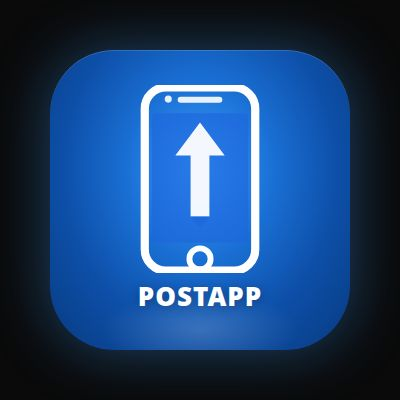
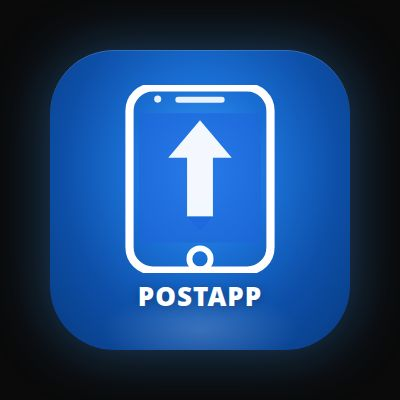
Widen iPhone silhouette to match text and adjust arrow
Adjust SVG for POSTAPP icon to widen the iPhone silhouette, aligning it with the text width, and proportionally scale the upload arrow with a larger arrowhead.

Replit-Commit-Author: Agent
Replit-Commit-Session-Id: ebc58803-abd4-4209-a281-e5b4c2ee3044
Replit-Commit-Checkpoint-Type: full_checkpoint
Replit-Commit-Event-Id: 53a66253-ec13-47ff-a157-b507c1280f8c
Replit-Commit-Screenshot-Url: https://storage.googleapis.com/screenshot-production-us-central1/cd8cc1ea-faf8-4541-bffe-30761e63f0c4/ebc58803-abd4-4209-a281-e5b4c2ee3044/kq6p7tJ
Replit-Helium-Checkpoint-Created: true

diff --git a/artifacts/mockup-sandbox/src/components/mockups/postapp-icons/OriginalIcon.tsx b/artifacts/mockup-sandbox/src/components/mockups/postapp-icons/OriginalIcon.tsx
@@ -22,28 +22,34 @@ export function OriginalIcon() {
           background: "radial-gradient(ellipse, rgba(255,255,255,0.18) 0%, transparent 70%)",
         }} />
 
-        {/* iPhone silhouette + arrow — enlarged to fill more of the tile */}
+        {/* iPhone silhouette — widened to align with POSTAPP text below */}
         <div style={{ position: "relative", zIndex: 1 }}>
-          <svg width="158" height="188" viewBox="0 0 110 160" fill="none">
+          {/* viewBox 0 0 130 160: iPhone center at x=65 */}
+          <svg width="182" height="188" viewBox="0 0 130 160" fill="none">
             {/* iPhone outer body */}
-            <rect x="8" y="2" width="94" height="156" rx="18" ry="18"
+            <rect x="5" y="2" width="120" height="156" rx="20" ry="20"
               fill="none" stroke="white" strokeWidth="7"/>
-            {/* Speaker slot */}
-            <rect x="36" y="10" width="38" height="5" rx="2.5" fill="white" opacity="0.9"/>
+            {/* Speaker slot — centered at x=65 */}
+            <rect x="44" y="10" width="42" height="5" rx="2.5" fill="white" opacity="0.9"/>
             {/* Front camera dot */}
-            <circle cx="28" cy="12" r="3" fill="white" opacity="0.9"/>
+            <circle cx="29" cy="12" r="3" fill="white" opacity="0.9"/>
             {/* Screen area */}
-            <rect x="14" y="24" width="82" height="110" rx="4"
+            <rect x="13" y="24" width="104" height="110" rx="4"
               fill="rgba(30,100,220,0.6)"/>
             {/* Home button */}
-            <circle cx="55" cy="148" r="9" fill="none" stroke="white" strokeWidth="5"/>
+            <circle cx="65" cy="148" r="9" fill="none" stroke="white" strokeWidth="5"/>
 
-            {/* Upload arrow — head + longer stem filling more of screen */}
+            {/*
+              Arrow centered at x=65
+              Head: wider triangle — tip at (65,30), wings at x=38 and x=92
+              Stem: 22px wide — x=54 to x=76
+              Stem bottom at y=112, notch to y=124
+            */}
             <polygon
-              points="55,32 76,60 63,60 63,112 47,112 47,60 34,60"
+              points="65,30 92,62 76,62 76,112 54,112 54,62 38,62"
               fill="white" opacity="0.95"/>
             {/* Chevron notch at tail bottom */}
-            <polygon points="47,112 55,122 63,112"
+            <polygon points="54,112 65,124 76,112"
               fill="rgba(30,100,220,0.6)"/>
           </svg>
         </div>
